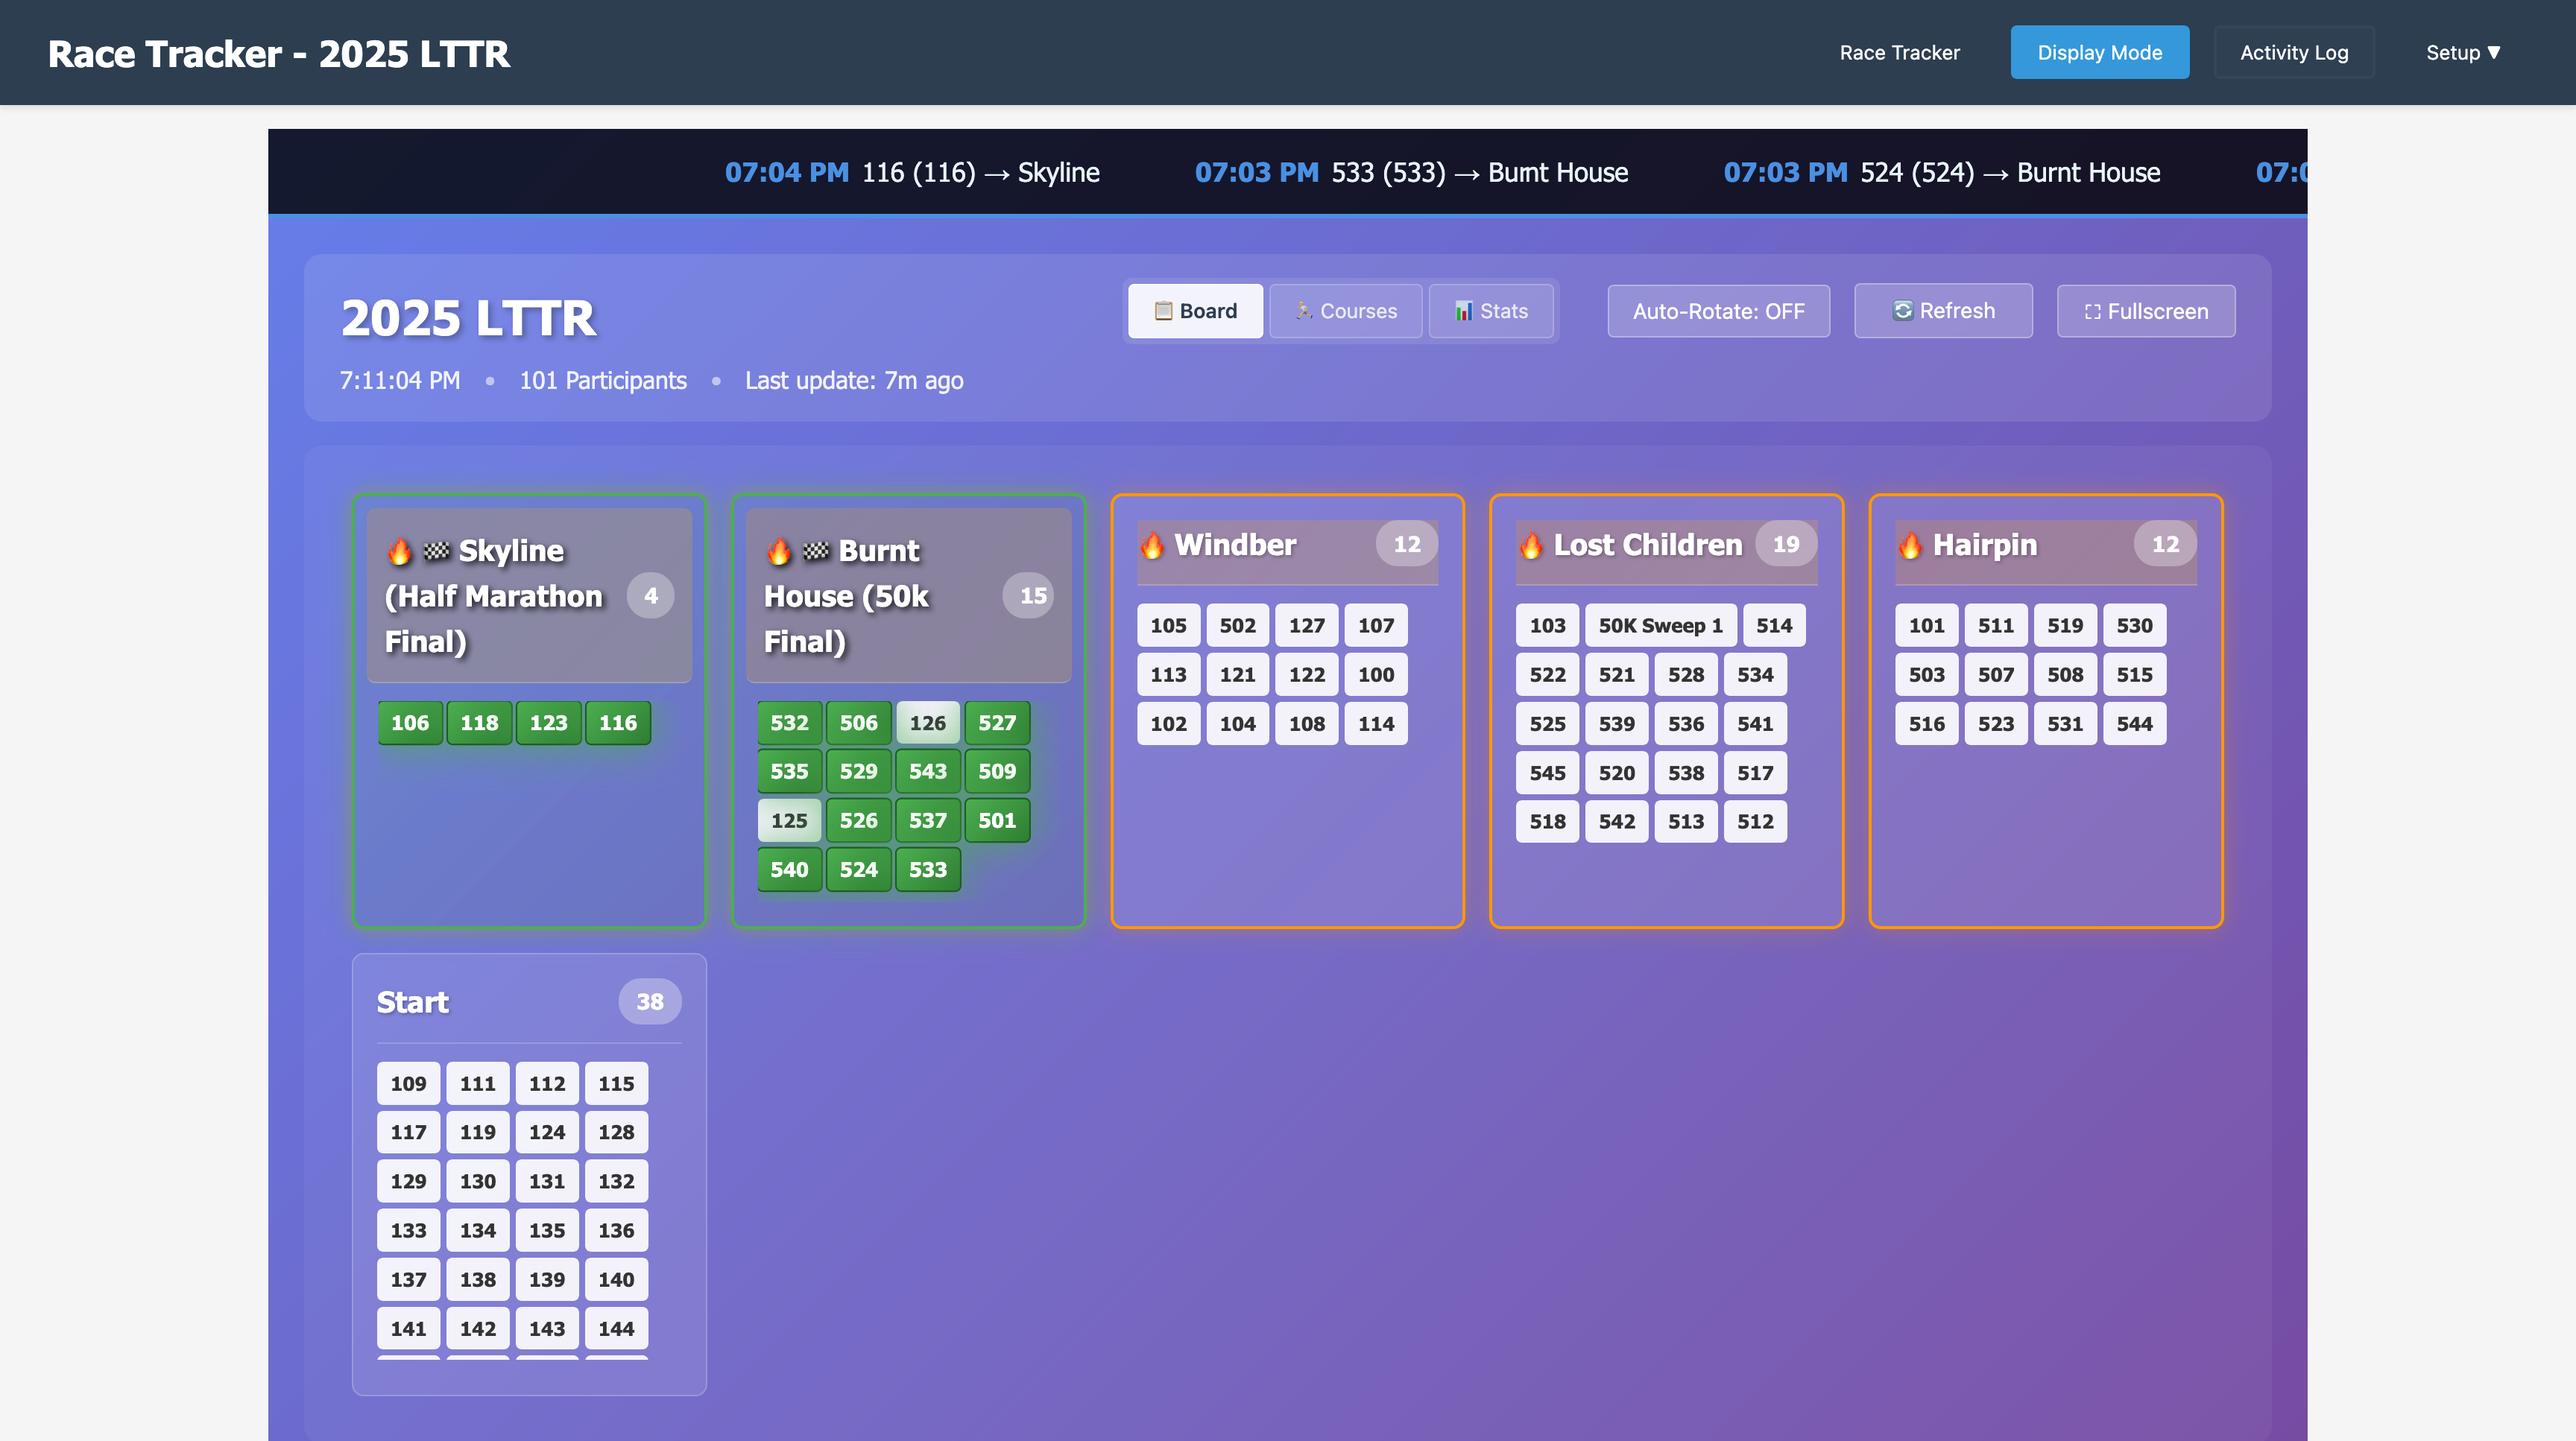
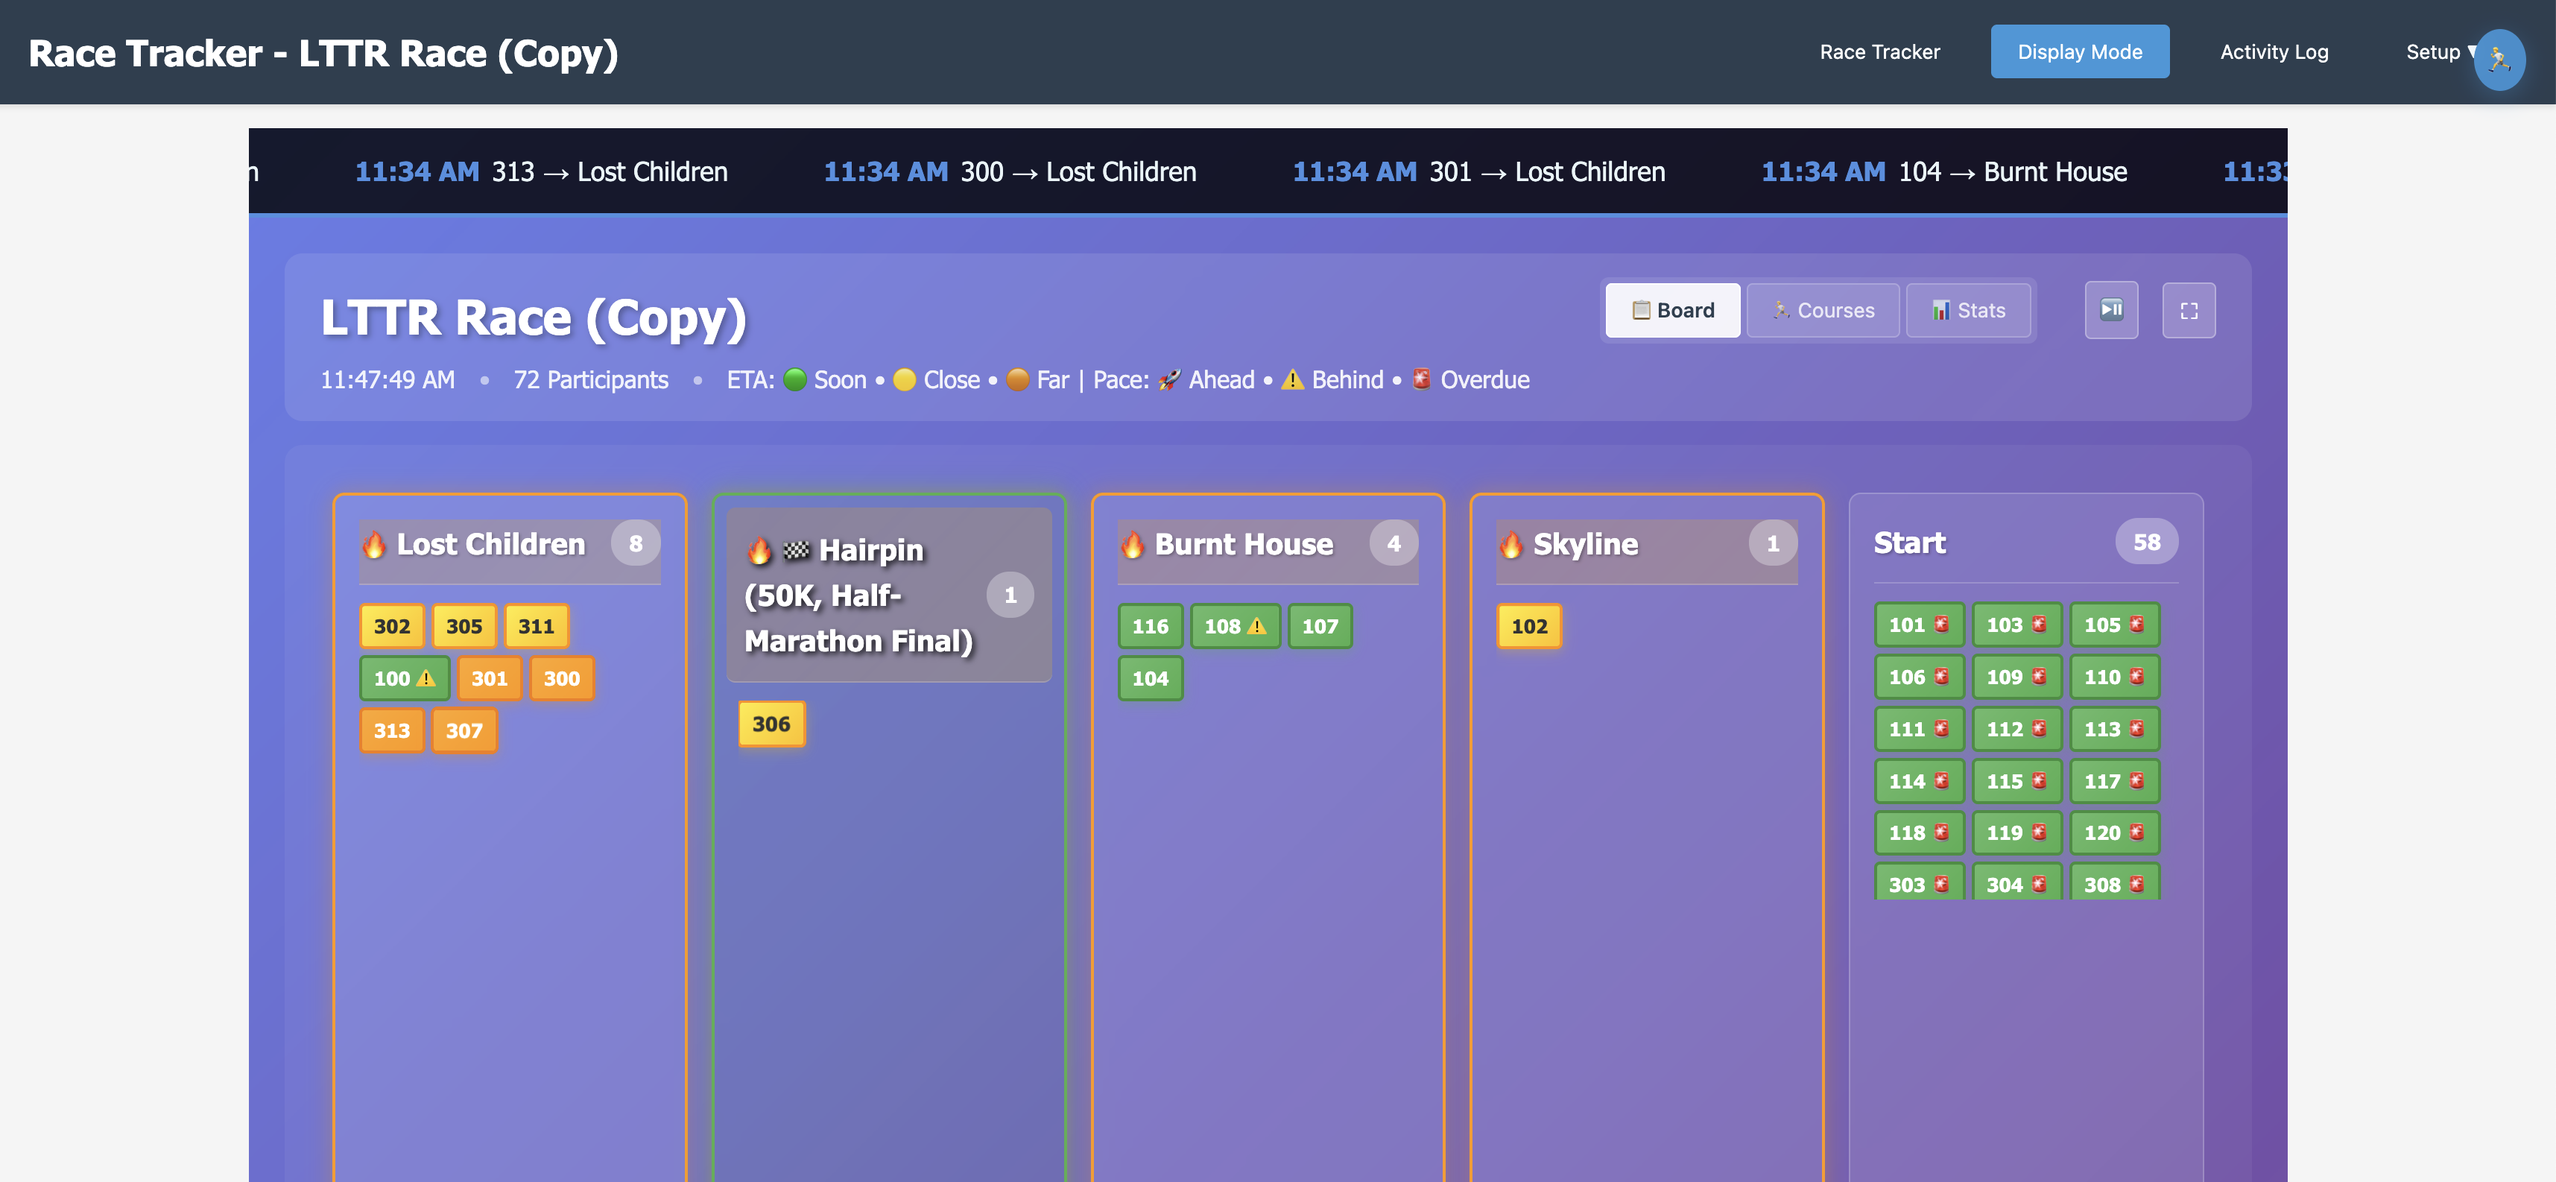
pacing on display board

diff --git a/src/js/display-mode.js b/src/js/display-mode.js
@@ -39,11 +39,13 @@ function toggleDisplayMode() {
   
   if (autoRotateEnabled) {
     startAutoRotation();
-    toggleBtn.textContent = 'Auto-Rotate: ON';
+    toggleBtn.textContent = '⏸';
+    toggleBtn.title = 'Auto-Rotate: ON (Click to pause)';
     toggleBtn.style.background = 'rgba(76, 175, 80, 0.3)';
   } else {
     stopAutoRotation();
-    toggleBtn.textContent = 'Auto-Rotate: OFF';
+    toggleBtn.textContent = '⏯';
+    toggleBtn.title = 'Auto-Rotate: OFF (Click to start)';
     toggleBtn.style.background = 'rgba(255, 255, 255, 0.2)';
   }
 }
@@ -142,11 +144,11 @@ function updateCountdownDisplay() {
       'courses': 'Courses',
       'statistics': 'Stats'
     };
-    toggleBtn.textContent = `Next: ${viewNames[nextView]} in ${rotationCountdown}s`;
+    toggleBtn.title = `Auto-Rotate: Next ${viewNames[nextView]} in ${rotationCountdown}s`;
   } else if (autoRotateEnabled) {
-    toggleBtn.textContent = 'Auto-Rotate: ON';
+    toggleBtn.title = 'Auto-Rotate: ON (Click to pause)';
   } else {
-    toggleBtn.textContent = 'Auto-Rotate: OFF';
+    toggleBtn.title = 'Auto-Rotate: OFF (Click to start)';
   }
 }
 
@@ -315,6 +317,12 @@ function refreshDisplay() {
   
   updateDisplayStats();
   
+  // Update pace data if pace tracker is available and data changed
+  if (dataChanged && window.paceTracker) {
+    window.paceTracker.calculateAllPaces();
+    window.paceTracker.calculateAllETAs();
+  }
+  
   // Only update ticker if data changed or it's been a while
   if (dataChanged || Math.random() < 0.1) { // 10% chance to update even if no changes
     updateActivityTicker();
@@ -411,6 +419,12 @@ function startDisplayMode() {
   refreshDisplay();
   updateNavButtons();
   
+  // Initialize pace tracker if available
+  if (window.paceTracker && !window.paceTracker.initialized) {
+    console.log('Display mode: Initializing pace tracker...');
+    window.paceTracker.initialize();
+  }
+  
   // Start ticker updates
   if (tickerInterval) clearInterval(tickerInterval);
   tickerInterval = setInterval(updateActivityTicker, TICKER_UPDATE_TIME);
@@ -450,7 +464,6 @@ function updateDisplayStats() {
   const eventNameEl = document.getElementById('display-event-name');
   const timeEl = document.getElementById('display-time');
   const participantCountEl = document.getElementById('display-participant-count');
-  const lastUpdateEl = document.getElementById('display-last-update');
   
   if (eventNameEl) {
     const eventName = window.eventData.event?.name || 'Race Display';
@@ -465,34 +478,9 @@ function updateDisplayStats() {
     const activeParticipants = window.eventData.participants?.filter(p => p.active).length || 0;
     participantCountEl.textContent = `${activeParticipants} Participants`;
   }
-  
-  if (lastUpdateEl) {
-    const lastActivity = getLastActivityTime();
-    lastUpdateEl.textContent = `Last update: ${lastActivity}`;
-  }
 }
 
-// Get last activity time
-function getLastActivityTime() {
-  if (!window.eventData?.activityLog || window.eventData.activityLog.length === 0) {
-    return 'None';
-  }
-  
-  const sortedLog = [...window.eventData.activityLog].sort((a, b) => 
-    new Date(b.userTime || b.timestamp) - new Date(a.userTime || a.timestamp)
-  );
-  
-  const lastEntry = sortedLog[0];
-  const lastTime = new Date(lastEntry.userTime || lastEntry.timestamp);
-  const now = new Date();
-  const diffMinutes = Math.floor((now - lastTime) / 60000);
-  
-  if (diffMinutes < 1) return 'Just now';
-  if (diffMinutes < 60) return `${diffMinutes}m ago`;
-  
-  const diffHours = Math.floor(diffMinutes / 60);
-  return `${diffHours}h ${diffMinutes % 60}m ago`;
-}
+
 
 // Update activity ticker with recent changes
 function updateActivityTicker() {
@@ -659,7 +647,7 @@ function renderCompactKanban(container) {
     const thirtyMinutesAgo = Date.now() - (30 * 60 * 1000);
     const hasRecentActivity = getStationLastActivity(stationId) > thirtyMinutesAgo;
     
-    // Group participants for compact display
+    // Group participants for compact display with pace-based styling
     const participantsHTML = participants.map(participantId => {
       const participant = window.eventData.participants.find(p => p.id === participantId);
       const displayName = participant ? (participant.name || participant.id) : participantId;
@@ -673,11 +661,24 @@ function renderCompactKanban(container) {
           course.stations[course.stations.length - 1].stationId === stationId
         );
       
+      // Get pace-based styling if pace tracker is available
+      let paceColorClass = '';
+      let paceIcon = '';
+      if (window.paceTracker && window.paceTracker.getPaceColorClass) {
+        paceColorClass = window.paceTracker.getPaceColorClass(participantId);
+        if (window.paceTracker.getPacePerformanceIconText) {
+          paceIcon = window.paceTracker.getPacePerformanceIconText(participantId);
+        }
+      }
+      
       let participantClass = 'compact-participant';
+      if (paceColorClass) participantClass += ` ${paceColorClass}`;
       if (isRecent) participantClass += ' recent-update';
       if (isFinishing) participantClass += ' finishing';
       
-      return `<span class="${participantClass}" title="${displayName}${isFinishing ? ' - Finishing!' : ''}">${displayName}</span>`;
+      const iconText = paceIcon ? ` ${paceIcon}` : '';
+      
+      return `<span class="${participantClass}" title="${displayName}${isFinishing ? ' - Finishing!' : ''}">${displayName}${iconText}</span>`;
     }).join('');
     
     let stationClasses = 'compact-station';

diff --git a/src/css/style.css b/src/css/style.css
@@ -230,6 +230,13 @@ body {
   font-size: 0.9rem;
 }
 
+.btn-tiny {
+  padding: 0.25rem 0.5rem;
+  font-size: 0.8rem;
+  min-width: 32px;
+  text-align: center;
+}
+
 /* Aid Stations Setup */
 .default-stations,
 .custom-stations {
@@ -2817,6 +2824,12 @@ body {
   transform: translateY(-2px);
 }
 
+.display-actions .btn-tiny {
+  min-width: 36px;
+  padding: 0.5rem;
+  font-size: 1rem;
+}
+
 /* Compact Kanban Board - fits everything on screen */
 .compact-kanban {
   display: grid;
@@ -2898,6 +2911,28 @@ body {
   box-shadow: 0 0 15px rgba(76, 175, 80, 0.7);
   font-weight: 700;
   animation: finishing-glow 3s infinite;
+}
+
+/* Pace-based colors for compact participants in display mode */
+.compact-participant.pace-arriving-soon {
+  background: linear-gradient(135deg, #66bb6a, #4caf50) !important;
+  color: white !important;
+  border: 2px solid #388e3c !important;
+  box-shadow: 0 2px 8px rgba(76, 175, 80, 0.3) !important;
+}
+
+.compact-participant.pace-arriving-closer {
+  background: linear-gradient(135deg, #ffeb3b, #ffc107) !important;
+  color: #333 !important;
+  border: 2px solid #ff8f00 !important;
+  box-shadow: 0 2px 8px rgba(255, 193, 7, 0.3) !important;
+}
+
+.compact-participant.pace-arriving-later {
+  background: linear-gradient(135deg, #ffa726, #ff9800) !important;
+  color: white !important;
+  border: 2px solid #f57c00 !important;
+  box-shadow: 0 2px 8px rgba(255, 152, 0, 0.3) !important;
 }
 
 .compact-station.final-station {
@@ -3024,6 +3059,28 @@ body {
   animation: pulse-highlight 2s infinite;
   border: 2px solid #ffd700;
   box-shadow: 0 0 20px rgba(255, 215, 0, 0.5);
+}
+
+/* Pace-based colors for regular display participants */
+.display-participant.pace-arriving-soon {
+  background: linear-gradient(135deg, #66bb6a, #4caf50) !important;
+  color: white !important;
+  border: 2px solid #388e3c !important;
+  box-shadow: 0 2px 8px rgba(76, 175, 80, 0.3) !important;
+}
+
+.display-participant.pace-arriving-closer {
+  background: linear-gradient(135deg, #ffeb3b, #ffc107) !important;
+  color: #333 !important;
+  border: 2px solid #ff8f00 !important;
+  box-shadow: 0 2px 8px rgba(255, 193, 7, 0.3) !important;
+}
+
+.display-participant.pace-arriving-later {
+  background: linear-gradient(135deg, #ffa726, #ff9800) !important;
+  color: white !important;
+  border: 2px solid #f57c00 !important;
+  box-shadow: 0 2px 8px rgba(255, 152, 0, 0.3) !important;
 }
 
 /* Recent Activity View */

diff --git a/src/index.html b/src/index.html
@@ -282,7 +282,7 @@
               <span class="divider">•</span>
               <span id="display-participant-count">-- Participants</span>
               <span class="divider">•</span>
-              <span id="display-last-update">Last updated: --</span>
+              <span id="display-legend">ETA: 🟢 Soon • 🟡 Close • 🟠 Far | Pace: 🚀 Ahead • ⚠ Behind • 🚨 Overdue</span>
             </div>
           </div>
           <div class="display-actions">
@@ -297,14 +297,11 @@
                 📊 Stats
               </button>
             </div>
-            <button class="btn btn-small" onclick="toggleDisplayMode()" id="display-toggle-btn">
-              Auto-Rotate: OFF
+            <button class="btn btn-tiny" onclick="toggleDisplayMode()" id="display-toggle-btn" title="Toggle Auto-Rotate">
+              ⏯
             </button>
-            <button class="btn btn-small" onclick="refreshDisplay()">
-              🔄 Refresh
-            </button>
-            <button class="btn btn-small" onclick="toggleFullscreen()" id="fullscreen-btn">
-              ⛶ Fullscreen
+            <button class="btn btn-tiny" onclick="toggleFullscreen()" id="fullscreen-btn" title="Toggle Fullscreen">
+              ⛶
             </button>
           </div>
         </div>
